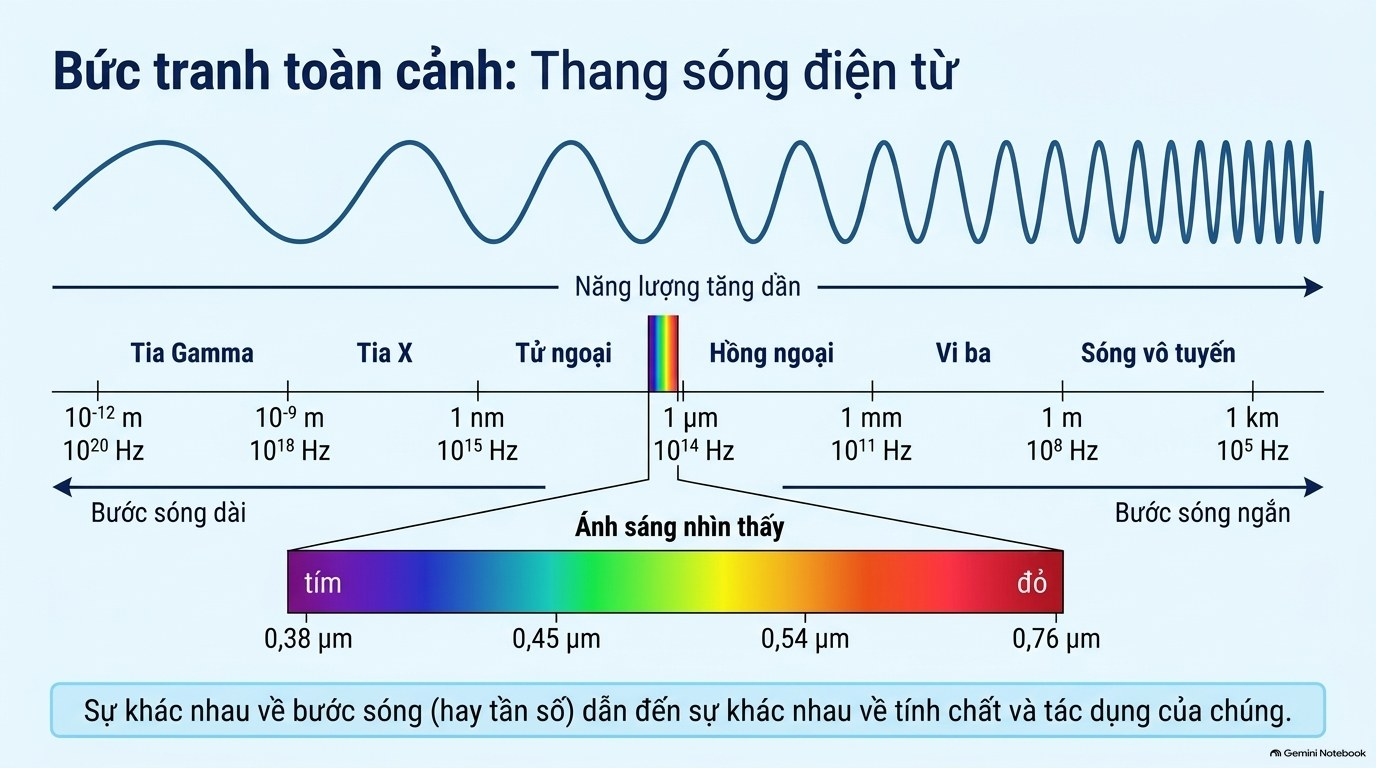
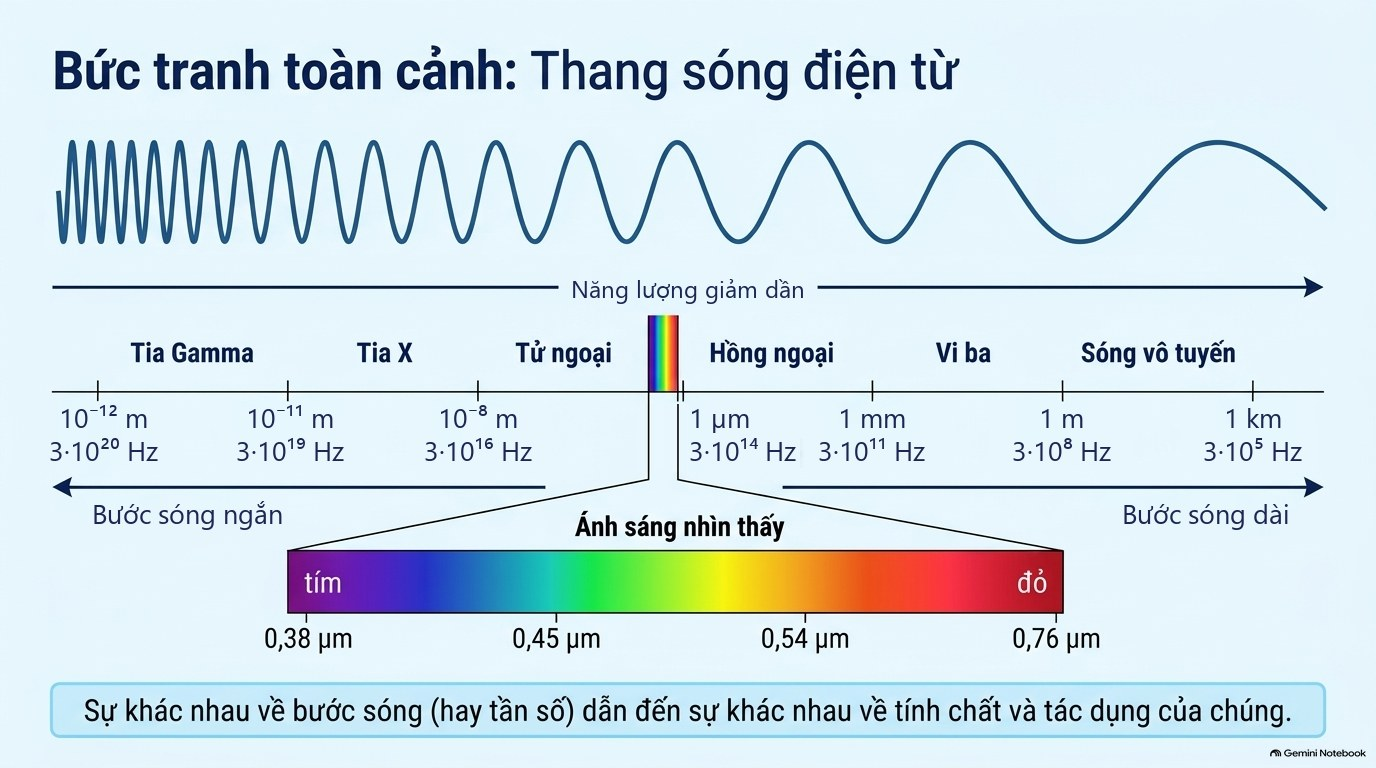
K10 Bài 13: gộp 14 hoạt động tương tác của bản cũ vào bài mới (32 slide); K11 Bài 11 slide 4: sửa chiều/số liệu thang sóng điện từ

diff --git a/bai-giang/k10-B13.html b/bai-giang/k10-B13.html
@@ -32,7 +32,8 @@ html,body{margin:0;height:100%;background:#0b1220;color:#e5e7eb;font:16px/1.4 "S
 #luoi span{display:block;padding:5px 2px 1px}
 #btK{position:fixed;inset:0;z-index:9999;background:rgba(15,23,42,.7);display:none;padding:2vh 2vw}
 #btK iframe{width:100%;height:100%;border:0;border-radius:12px;background:#fff}
-#btK iframe{height:calc(100% - 46px)} #btK button{position:absolute;bottom:calc(2vh + 12px);right:calc(2vw + 22px);font:600 16px "Segoe UI",sans-serif;border:0;border-radius:999px;padding:7px 16px;background:#14213d;color:#fff;cursor:pointer;box-shadow:0 2px 10px #0006}
+.ttf{position:absolute;inset:0;width:100%;height:100%;border:0;background:#0b1220}#san.tt .vung{display:none}.ttK{aspect-ratio:1376/768;border-radius:6px;background:linear-gradient(135deg,#1e3a8a,#0f172a);display:flex;flex-direction:column;justify-content:center;gap:8px;padding:12px;font-weight:700;color:#e5e7eb}.ttK b{align-self:flex-start;background:#f59e0b;color:#111827;border-radius:999px;padding:2px 10px;font-size:12px}
+#btK button{position:absolute;bottom:calc(2vh + 12px);right:calc(2vw + 22px);font:600 16px "Segoe UI",sans-serif;border:0;border-radius:999px;padding:7px 16px;background:#14213d;color:#fff;cursor:pointer;box-shadow:0 2px 10px #0006}
 @media (max-width:720px){#td{display:none}#thanh{gap:5px;padding:0 6px}#thanh button{padding:6px 10px;font-size:14px}}
 @media print{#thanh,#thuoc,.vung{display:none}#san{inset:0}}
 
@@ -70,7 +71,7 @@ html,body{margin:0;height:100%;background:#0b1220;color:#e5e7eb;font:16px/1.4 "S
 </style>
 </head>
 <body>
-<div id="san"><img id="anh" alt=""><button class="vung" id="vTruoc" aria-label="Slide trước" title="Slide trước"></button><button class="vung" id="vSau" aria-label="Slide sau" title="Slide sau"></button></div>
+<div id="san"><img id="anh" alt=""><iframe id="llFrame" class="ttf" title="Hoạt động tương tác" hidden></iframe><button class="vung" id="vTruoc" aria-label="Slide trước" title="Slide trước"></button><button class="vung" id="vSau" aria-label="Slide sau" title="Slide sau"></button></div>
 <div id="luoi" role="list" aria-label="Tất cả slide"></div>
 <div id="thuoc"></div>
 <div id="thanh">
@@ -80,7 +81,7 @@ html,body{margin:0;height:100%;background:#0b1220;color:#e5e7eb;font:16px/1.4 "S
   <span id="td"></span>
   <button id="bMP" hidden title="Mô phỏng cho slide này (phím M)">📐 Mô phỏng</button>
   <button id="bLuoi" title="Xem tất cả slide (phím O)">Tất cả slide</button>
-  <button id="bBT" class="c" title="Câu hỏi củng cố tương tác, có chấm điểm (phím B)">Luyện tập tương tác</button>
+  <button id="bBT" class="c" hidden title="Bài tập của bài này, có đáp án (phím B)">Bài tập cuối bài</button>
   <button id="bToan" title="Toàn màn hình (phím F)">⛶ Toàn màn hình</button>
 </div>
 <div id="btK"><button type="button">Đóng ✕</button></div>
@@ -213,7 +214,7 @@ window.MPve = {
 };
 </script>
 <script>/* Mô phỏng Bài 13 (khối 10). Tổng hợp và phân tích lực. Cân bằng lực.
-   Gắn vào slide (đã bỏ slide Mini-quiz, chỉ số từ 7 trở đi lùi 1 so với) bản pptx "Bài 13- Tong_hop_va_Phan_tich_Luc_da_sua.pptx" (chỉ số slide đếm từ 0):
+   Gắn vào slide của bản pptx "Bài 13- Tong_hop_va_Phan_tich_Luc_da_sua.pptx" (chỉ số slide đếm từ 0):
      2, 3  Thí nghiệm ba lực kế, thu thập số liệu     4, 5, 6  Quy tắc hình bình hành, độ lớn hợp lực, trường hợp đặc biệt
      8, 10 Mặt phẳng nghiêng                          9        Phân tích lực
      11    Điều kiện cân bằng (ba lực)                12, 16   Vật treo hai dây, bài toán dây phơi
@@ -621,28 +622,59 @@ window.MPve = {
   MP.dangKy("B13", 4, tongHop("Kéo thanh trượt F₁, F₂, α: hợp lực là đường chéo của hình bình hành tạo bởi hai lực.", "Quy tắc hình bình hành", 60));
   MP.dangKy("B13", 5, tongHop("Độ lớn F phụ thuộc F₁, F₂ và góc α: F² = F₁² + F₂² + 2F₁F₂cosα, luôn nằm giữa |F₁ − F₂| và F₁ + F₂.", "Độ lớn hợp lực", 90));
   MP.dangKy("B13", 6, tongHop("Bấm các nút α = 0°, 90°, 180°, F₁ = F₂ để kiểm tra bốn trường hợp đặc biệt.", "Các trường hợp đặc biệt của hợp lực", 0));
-  MP.dangKy("B13", 7, nghieng("Vì sao vật trượt xuống mặt phẳng nghiêng?", "Tăng góc α: thành phần Pₓ = P·sinα kéo vật trượt tăng dần; α = 0° thì Pₓ = 0."));
-  MP.dangKy("B13", 8, phanTich);
-  MP.dangKy("B13", 9, nghieng("Giải mã mặt phẳng nghiêng", "Pₓ = P·sinα (kéo trượt), P_y = P·cosα (ép lên mặt dốc), N = P_y. Đổi m và α để thấy các thành phần thay đổi."));
-  MP.dangKy("B13", 10, thiNghiem("Điều kiện cân bằng: ba lực có hợp lực bằng 0", "F₁ + F₂ + F₃ = 0: đa giác lực khép kín. Đổi F₁, F₂, α; F₃ tự điều chỉnh để chất điểm cân bằng.", false));
-  MP.dangKy("B13", 11, treo("Vật treo bằng hai dây", "T₁ + T₂ + P = 0 → 2T·sinα = P. Giảm α thì lực căng T tăng.", 20, 40));
-  MP.dangKy("B13", 13, dungSai());
-  MP.dangKy("B13", 14, tim);
-  MP.dangKy("B13", 15, treo("Bài toán dây phơi", "Dây phơi căng ngang (α nhỏ) → T rất lớn → dễ đứt. Thử giảm α đến khi dây đứt, rồi tăng lại.", 30, 20, true));
+  MP.dangKy("B13", 8, nghieng("Vì sao vật trượt xuống mặt phẳng nghiêng?", "Tăng góc α: thành phần Pₓ = P·sinα kéo vật trượt tăng dần; α = 0° thì Pₓ = 0."));
+  MP.dangKy("B13", 9, phanTich);
+  MP.dangKy("B13", 10, nghieng("Giải mã mặt phẳng nghiêng", "Pₓ = P·sinα (kéo trượt), P_y = P·cosα (ép lên mặt dốc), N = P_y. Đổi m và α để thấy các thành phần thay đổi."));
+  MP.dangKy("B13", 11, thiNghiem("Điều kiện cân bằng: ba lực có hợp lực bằng 0", "F₁ + F₂ + F₃ = 0: đa giác lực khép kín. Đổi F₁, F₂, α; F₃ tự điều chỉnh để chất điểm cân bằng.", false));
+  MP.dangKy("B13", 12, treo("Vật treo bằng hai dây", "T₁ + T₂ + P = 0 → 2T·sinα = P. Giảm α thì lực căng T tăng.", 20, 40));
+  MP.dangKy("B13", 14, dungSai());
+  MP.dangKy("B13", 15, tim);
+  MP.dangKy("B13", 16, treo("Bài toán dây phơi", "Dây phơi căng ngang (α nhỏ) → T rất lớn → dễ đứt. Thử giảm α đến khi dây đứt, rồi tăng lại.", 30, 20, true));
 })();
 </script>
 <script>
-var MA="B13",TT="k10-B13-tuong-tac.html#B13@9",TEN=["Bài 13: Tổng hợp và phân tích lực. Cân bằng lực", "Tình huống thực tế: thay nhiều lực bằng một lực?", "Thí nghiệm tổng hợp hai lực đồng quy", "Thu thập và xử lí số liệu", "Quy tắc hình bình hành", "Tính độ lớn hợp lực", "Các trường hợp đặc biệt của hợp lực", "Khởi động tiết 2: Bí ẩn mặt phẳng nghiêng", "Phân tích lực thành hai thành phần vuông góc", "Ứng dụng: giải mã mặt phẳng nghiêng", "Điều kiện cân bằng của chất điểm", "Vận dụng trạng thái cân bằng", "Luyện tập dạng 1: Trắc nghiệm nhiều lựa chọn", "Luyện tập dạng 2: Đúng / Sai", "Luyện tập dạng 3: Trả lời ngắn từ đồ thị", "Vận dụng thực tế: Bài toán dây phơi", "Phụ lục 1: Phiếu học tập số 1", "Phụ lục 2: Đáp án chi tiết luyện tập"],THU="k10-"+MA+"/",slides=TEN.map(function(t,i){return {ten:t,src:THU+"s"+(i<9?"0":"")+(i+1)+".jpg"}}),cur=0;
+var MA="B13",TTB="k10-B13-tuong-tac.html",DAY=[{"t": "Bài 13: Tổng hợp và phân tích lực. Cân bằng lực", "a": 1, "tt": -1, "mp": 0}, {"t": "Khởi động: chọn ô số, trả lời nhanh", "a": 0, "tt": 1, "mp": -1}, {"t": "Tình huống thực tế: thay nhiều lực bằng một lực?", "a": 2, "tt": -1, "mp": 1}, {"t": "Dự đoán: tàu chở hàng đi hướng nào?", "a": 0, "tt": 2, "mp": -1}, {"t": "Hoạt động 1: Tổng hợp hai lực cùng phương", "a": 0, "tt": 4, "mp": -1}, {"t": "Thí nghiệm tổng hợp hai lực đồng quy", "a": 3, "tt": -1, "mp": 2}, {"t": "Thu thập và xử lí số liệu", "a": 4, "tt": -1, "mp": 3}, {"t": "Quy tắc hình bình hành", "a": 5, "tt": -1, "mp": 4}, {"t": "Hoạt động 2: Quy tắc hình bình hành, sắp xếp đúng bước", "a": 0, "tt": 5, "mp": -1}, {"t": "Tính độ lớn hợp lực", "a": 6, "tt": -1, "mp": 5}, {"t": "Các trường hợp đặc biệt của hợp lực", "a": 7, "tt": -1, "mp": 6}, {"t": "Vận dụng: Giải mã tàu chở hàng (SGK tr. 57, câu 2)", "a": 0, "tt": 8, "mp": -1}, {"t": "Củng cố 1: Tổng hợp lực", "a": 0, "tt": 9, "mp": -1}, {"t": "Khởi động tiết 2: Bí ẩn mặt phẳng nghiêng", "a": 8, "tt": -1, "mp": 8}, {"t": "Phân tích lực thành hai thành phần vuông góc", "a": 9, "tt": -1, "mp": 9}, {"t": "Ứng dụng: giải mã mặt phẳng nghiêng", "a": 10, "tt": -1, "mp": 10}, {"t": "Ví dụ: Vật trên mặt phẳng nghiêng nhẵn", "a": 0, "tt": 14, "mp": -1}, {"t": "Củng cố 3: Phân tích lực", "a": 0, "tt": 15, "mp": -1}, {"t": "Điều kiện cân bằng của chất điểm", "a": 11, "tt": -1, "mp": 11}, {"t": "Vận dụng trạng thái cân bằng", "a": 12, "tt": -1, "mp": 12}, {"t": "Hoạt động 3: Lực không cân bằng, phân loại tình huống", "a": 0, "tt": 11, "mp": -1}, {"t": "Củng cố 2: Cân bằng lực", "a": 0, "tt": 12, "mp": -1}, {"t": "Luyện tập dạng 1: Trắc nghiệm nhiều lựa chọn", "a": 13, "tt": -1, "mp": 13}, {"t": "Luyện tập dạng 2: Đúng / Sai", "a": 14, "tt": -1, "mp": 14}, {"t": "Luyện tập dạng 3: Trả lời ngắn từ đồ thị", "a": 15, "tt": -1, "mp": 15}, {"t": "Vận dụng thực tế: Bài toán dây phơi", "a": 16, "tt": -1, "mp": 16}, {"t": "Em có thể", "a": 0, "tt": 18, "mp": -1}, {"t": "Tổng kết: hệ thống kiến thức", "a": 0, "tt": 16, "mp": -1}, {"t": "Luyện tập: Bài tập tổng hợp", "a": 0, "tt": 17, "mp": -1}, {"t": "Vận dụng: Bài tập vận dụng", "a": 0, "tt": 19, "mp": -1}, {"t": "Phụ lục 1: Phiếu học tập số 1", "a": 17, "tt": -1, "mp": 17}, {"t": "Phụ lục 2: Đáp án chi tiết luyện tập", "a": 18, "tt": -1, "mp": 18}],THU="k10-"+MA+"/",slides=DAY.map(function(d){return {ten:d.t,src:d.a?THU+"s"+(d.a<10?"0":"")+d.a+".jpg":"",tt:d.tt,mp:d.mp}}),cur=0;
 (function(){
   var $=function(i){return document.getElementById(i)},anh=$("anh"),luoi=$("luoi"),btK=$("btK");
+  var ttF=document.querySelector("iframe.ttf");   /* id llFrame: trang con tự ẩn công cụ lớp (trang này đã có) */
+  function tiep(){if(!ttBuoc())go(cur+1)}
+  function ttBuoc(){          /* trang tương tác cũ hiện từng bước (.step): bấm tiếp thì hiện bước kế trước khi sang slide sau */
+    if(ttF.hidden||slides[cur].tt<0)return false;
+    try{var w=ttF.contentWindow,h=[].slice.call(w.slides[w.cur].querySelectorAll(".step")).filter(function(e){return !e.classList.contains("show")})[0];if(h){h.classList.add("show");return true}}catch(e){}
+    return false;
+  }
+  function ttNap(){           /* trang con tải xong: ẩn thanh điều khiển riêng, chuyển phím ← → về trang này */
+    var w,d;try{w=ttF.contentWindow;d=w.document;if(!w.go)return}catch(e){return}
+    if(!d.getElementById("hsdh-tt")){
+      var st=d.createElement("style");st.id="hsdh-tt";st.textContent="#bar,#toc{display:none!important}";d.head.appendChild(st);
+      w.addEventListener("keydown",function(e){
+        var t=e.target&&e.target.tagName,k=e.key,mui=k==="ArrowRight"||k==="ArrowLeft"||k==="PageDown"||k==="PageUp";
+        if(t==="INPUT"||t==="TEXTAREA"||t==="SELECT"){if(mui)e.stopImmediatePropagation();return}
+        if(k==="ArrowRight"||k==="PageDown"||(k===" "&&t!=="BUTTON")){e.preventDefault();e.stopImmediatePropagation();tiep()}
+        else if(k==="ArrowLeft"||k==="PageUp"){e.preventDefault();e.stopImmediatePropagation();go(cur-1)}
+        else if(k==="f"||k==="F"||k==="o"||k==="O"){e.preventDefault();e.stopImmediatePropagation();document.dispatchEvent(new KeyboardEvent("keydown",{key:k}))}
+      },true);
+    }
+    ttF.dataset.ok="1";var s=slides[cur];if(s.tt>=0)w.go(s.tt);
+  }
+  ttF.addEventListener("load",ttNap);
+  function ttHien(s,atras){
+    var san=$("san");
+    if(s.tt<0){ttF.hidden=true;san.classList.remove("tt");anh.style.display="";anh.src=s.src;anh.alt="Slide "+(cur+1)+": "+s.ten;return}
+    anh.style.display="none";ttF.hidden=false;san.classList.add("tt");
+    if(ttF.dataset.ok){try{ttF.contentWindow.go(s.tt,atras);ttF.focus();return}catch(e){}}
+    if(!ttF.getAttribute("src"))ttF.src=TTB+"#B13@"+s.tt;
+    else if(!ttF.dataset.ok)ttF.src=TTB+"?k="+Date.now()+"#B13@"+s.tt;
+  }
+
   window.go=function(i){
-    cur=Math.max(0,Math.min(slides.length-1,i|0));var s=slides[cur];
-    anh.src=s.src;anh.alt="Slide "+(cur+1)+": "+s.ten;
+    var atras=(i|0)<cur;cur=Math.max(0,Math.min(slides.length-1,i|0));var s=slides[cur];
+    ttHien(s,atras);
     $("vt").textContent=(cur+1)+" / "+slides.length;$("td").textContent=s.ten;
     $("bTruoc").disabled=cur===0;$("bSau").disabled=cur===slides.length-1;
     $("thuoc").style.width=((cur+1)/slides.length*100)+"%";
-    if(slides[cur+1]){(new Image()).src=slides[cur+1].src}
-    var mp=window.MP&&MP.co(MA,cur);$("bMP").hidden=!mp;if(window.MP&&MP.dangMo())MP.dong();
+    if(slides[cur+1]&&slides[cur+1].src){(new Image()).src=slides[cur+1].src}
+    var mp=window.MP&&MP.co(MA,slides[cur].mp);$("bMP").hidden=!mp;if(window.MP&&MP.dangMo())MP.dong();
     try{history.replaceState(null,"","#"+MA+"@"+cur)}catch(e){}
     dongLuoi();
   };
@@ -650,28 +682,28 @@ var MA="B13",TT="k10-B13-tuong-tac.html#B13@9",TEN=["Bài 13: Tổng hợp và p
   function moLuoi(){
     if(luoi.classList.contains("mo")){dongLuoi();return}
     if(!luoi.firstChild)slides.forEach(function(s,i){var b=document.createElement("button");b.setAttribute("role","listitem");b.dataset.i=i;
-      b.innerHTML='<img loading="lazy" width="1376" height="768" alt="" src="'+s.src+'"><span><b>'+(i+1)+'.</b> '+s.ten+'</span>';luoi.appendChild(b)});
+      b.innerHTML=(s.src?'<img loading="lazy" width="1376" height="768" alt="" src="'+s.src+'">':'<div class="ttK"><b>Tương tác</b>'+s.ten+'</div>')+'<span><b>'+(i+1)+'.</b> '+s.ten+'</span>';luoi.appendChild(b)});
     [].forEach.call(luoi.children,function(b,i){b.classList.toggle("on",i===cur)});
     luoi.classList.add("mo");$("bLuoi").textContent="Đóng tổng quan";
     var on=luoi.children[cur];if(on){on.focus();on.scrollIntoView({block:"center"})}
   }
   function toan(){var d=document;if(d.fullscreenElement)d.exitFullscreen();else if(d.documentElement.requestFullscreen)d.documentElement.requestFullscreen()}
-  function moBT(){if(!btK.querySelector("iframe")){var f=document.createElement("iframe");f.title="Luyện tập tương tác";f.id="llFrame";f.src=TT;btK.appendChild(f)}btK.style.display="block";btK.querySelector("button").focus()}
+  function moBT(){if(!btK.querySelector("iframe")){var f=document.createElement("iframe");f.title="Bài tập cuối bài";f.src="k11-bai-tap.html#"+MA;btK.appendChild(f)}btK.style.display="block";btK.querySelector("button").focus()}
   function dongBT(){btK.style.display="none";$("bBT").focus()}
   luoi.addEventListener("click",function(e){var b=e.target.closest("button");if(b)go(+b.dataset.i)});
   $("bTruoc").onclick=$("vTruoc").onclick=function(){go(cur-1)};
-  $("bSau").onclick=$("vSau").onclick=function(){go(cur+1)};
-  $("bLuoi").onclick=moLuoi;$("bToan").onclick=toan;$("bBT").onclick=moBT;$("bMP").onclick=function(){if(window.MP)MP.mo(MA,cur)};btK.querySelector("button").onclick=dongBT;
+  $("bSau").onclick=$("vSau").onclick=tiep;
+  $("bLuoi").onclick=moLuoi;$("bToan").onclick=toan;$("bBT").onclick=moBT;$("bMP").onclick=function(){if(window.MP)MP.mo(MA,slides[cur].mp)};btK.querySelector("button").onclick=dongBT;
   document.addEventListener("keydown",function(e){
     if(btK.style.display==="block"){if(e.key==="Escape")dongBT();return}
     var t=e.target.tagName;if(t==="INPUT"||t==="TEXTAREA"||t==="SELECT"||e.ctrlKey||e.altKey||e.metaKey)return;
     if(document.querySelector(".hl-ov")||(window.MP&&MP.dangMo()))return;
     var k=e.key;
-    if(k==="ArrowRight"||k==="PageDown"||(k===" "&&t!=="BUTTON")){go(cur+1);e.preventDefault()}
+    if(k==="ArrowRight"||k==="PageDown"||(k===" "&&t!=="BUTTON")){tiep();e.preventDefault()}
     else if(k==="ArrowLeft"||k==="PageUp"){go(cur-1);e.preventDefault()}
     else if(k==="Home")go(0);else if(k==="End")go(slides.length-1);
     else if(k==="f"||k==="F")toan();else if(k==="o"||k==="O")moLuoi();else if(k==="b"||k==="B")moBT();
-    else if((k==="m"||k==="M")&&window.MP&&MP.co(MA,cur))MP.mo(MA,cur);
+    else if((k==="m"||k==="M")&&window.MP&&MP.co(MA,slides[cur].mp))MP.mo(MA,slides[cur].mp);
     else if(k==="Escape")dongLuoi();
   });
   var x0=null;

diff --git a/tools/k10_bai_giang/dung.py b/tools/k10_bai_giang/dung.py
@@ -20,28 +20,44 @@ from PIL import Image
 NGUON = os.path.join(REPO, 'K10')
 d11.KHOA = '10-3'
 
+# Trình tự trình chiếu: ('a', chỉ số slide trong pptx tính từ 0, tên) là slide ẢNH; ('t', chỉ số slide trong trang tương tác cũ k10-B13-tuong-tac.html tính từ 0, tên)
+# là hoạt động TƯƠNG TÁC của bài giảng cũ, nhúng vào đúng chỗ. Slide pptx số 7 "Mini-quiz" bị bỏ theo phiếu #7 (Củng cố 1 tương tác thay vào chỗ đó).
+# Chỉ số mô phỏng trong mo_phong/B13.js = chỉ số slide pptx (không đổi khi chèn thêm hoạt động).
 BAI = {
     'B13': dict(file='Bài 13- Tong_hop_va_Phan_tich_Luc_da_sua.pptx', ten='Bài 13. Tổng hợp và phân tích lực. Cân bằng lực',
-                tuong_tac='k10-B13-tuong-tac.html#B13@9', slide=[
-        'Bài 13: Tổng hợp và phân tích lực. Cân bằng lực',
-        'Tình huống thực tế: thay nhiều lực bằng một lực?',
-        'Thí nghiệm tổng hợp hai lực đồng quy',
-        'Thu thập và xử lí số liệu',
-        'Quy tắc hình bình hành',
-        'Tính độ lớn hợp lực',
-        'Các trường hợp đặc biệt của hợp lực',
-        'Mini-quiz (củng cố tiết 1)',
-        'Khởi động tiết 2: Bí ẩn mặt phẳng nghiêng',
-        'Phân tích lực thành hai thành phần vuông góc',
-        'Ứng dụng: giải mã mặt phẳng nghiêng',
-        'Điều kiện cân bằng của chất điểm',
-        'Vận dụng trạng thái cân bằng',
-        'Luyện tập dạng 1: Trắc nghiệm nhiều lựa chọn',
-        'Luyện tập dạng 2: Đúng / Sai',
-        'Luyện tập dạng 3: Trả lời ngắn từ đồ thị',
-        'Vận dụng thực tế: Bài toán dây phơi',
-        'Phụ lục 1: Phiếu học tập số 1',
-        'Phụ lục 2: Đáp án chi tiết luyện tập']),
+                tuong_tac='k10-B13-tuong-tac.html', day=[
+        ('a', 0, 'Bài 13: Tổng hợp và phân tích lực. Cân bằng lực'),
+        ('t', 1, 'Khởi động: chọn ô số, trả lời nhanh'),
+        ('a', 1, 'Tình huống thực tế: thay nhiều lực bằng một lực?'),
+        ('t', 2, 'Dự đoán: tàu chở hàng đi hướng nào?'),
+        ('t', 4, 'Hoạt động 1: Tổng hợp hai lực cùng phương'),
+        ('a', 2, 'Thí nghiệm tổng hợp hai lực đồng quy'),
+        ('a', 3, 'Thu thập và xử lí số liệu'),
+        ('a', 4, 'Quy tắc hình bình hành'),
+        ('t', 5, 'Hoạt động 2: Quy tắc hình bình hành, sắp xếp đúng bước'),
+        ('a', 5, 'Tính độ lớn hợp lực'),
+        ('a', 6, 'Các trường hợp đặc biệt của hợp lực'),
+        ('t', 8, 'Vận dụng: Giải mã tàu chở hàng (SGK tr. 57, câu 2)'),
+        ('t', 9, 'Củng cố 1: Tổng hợp lực'),
+        ('a', 8, 'Khởi động tiết 2: Bí ẩn mặt phẳng nghiêng'),
+        ('a', 9, 'Phân tích lực thành hai thành phần vuông góc'),
+        ('a', 10, 'Ứng dụng: giải mã mặt phẳng nghiêng'),
+        ('t', 14, 'Ví dụ: Vật trên mặt phẳng nghiêng nhẵn'),
+        ('t', 15, 'Củng cố 3: Phân tích lực'),
+        ('a', 11, 'Điều kiện cân bằng của chất điểm'),
+        ('a', 12, 'Vận dụng trạng thái cân bằng'),
+        ('t', 11, 'Hoạt động 3: Lực không cân bằng, phân loại tình huống'),
+        ('t', 12, 'Củng cố 2: Cân bằng lực'),
+        ('a', 13, 'Luyện tập dạng 1: Trắc nghiệm nhiều lựa chọn'),
+        ('a', 14, 'Luyện tập dạng 2: Đúng / Sai'),
+        ('a', 15, 'Luyện tập dạng 3: Trả lời ngắn từ đồ thị'),
+        ('a', 16, 'Vận dụng thực tế: Bài toán dây phơi'),
+        ('t', 18, 'Em có thể'),
+        ('t', 16, 'Tổng kết: hệ thống kiến thức'),
+        ('t', 17, 'Luyện tập: Bài tập tổng hợp'),
+        ('t', 19, 'Vận dụng: Bài tập vận dụng'),
+        ('a', 17, 'Phụ lục 1: Phiếu học tập số 1'),
+        ('a', 18, 'Phụ lục 2: Đáp án chi tiết luyện tập')]),
 }
 
 # Chỉnh trên ảnh slide (cách ghi như tools/k11_bai_giang/dung.py). Tọa độ theo ảnh gốc 1376x768.
@@ -59,17 +75,62 @@ SUA_ANH = {
     ('B13', 17): [('xoa', (1308, 708, 1348, 738))],
 }
 
-TRANG = (d11.TRANG
-         .replace('Vật lí 11', 'Vật lí 10')
-         .replace('THU="k11-"+MA+"/"', 'THU="k10-"+MA+"/"')
-         .replace('<button id="bBT" class="c" title="Bài tập của bài này, có đáp án (phím B)">Bài tập cuối bài</button>',
-                  '<button id="bBT" class="c" title="Câu hỏi củng cố tương tác, có chấm điểm (phím B)">Luyện tập tương tác</button>')
-         .replace('f.title="Bài tập cuối bài";f.src="k11-bai-tap.html#"+MA;', 'f.title="Luyện tập tương tác";f.id="llFrame";f.src=TT;')   # id llFrame: trang con tự ẩn công cụ lớp (đã có ở trang này)
-         .replace('#btK button{', '#btK iframe{height:calc(100% - 46px)} #btK button{')
-         .replace('var MA=__MA__,', 'var MA=__MA__,TT=__TT__,')
-         .replace('🌊 Mô phỏng', '📐 Mô phỏng'))
-for dau in ('THU="k10-"', 'f.src=TT', 'TT=__TT__', 'Luyện tập tương tác', '#btK iframe{height:calc'):
-    assert dau in TRANG, 'Khung trang K11 đã đổi, cập nhật dung.py: thiếu ' + dau
+def thay(t, a, b, n=1):
+    assert t.count(a) == n, 'Khung trang K11 đã đổi, cập nhật dung.py: ' + a[:70]
+    return t.replace(a, b)
+
+
+TRANG = d11.TRANG.replace('Vật lí 11', 'Vật lí 10').replace('🌊 Mô phỏng', '📐 Mô phỏng')
+TRANG = thay(TRANG, 'var MA=__MA__,TEN=__SLIDE__,THU="k11-"+MA+"/",slides=TEN.map(function(t,i){return {ten:t,src:THU+"s"+(i<9?"0":"")+(i+1)+".jpg"}}),cur=0;',
+             'var MA=__MA__,TTB=__TT__,DAY=__SLIDE__,THU="k10-"+MA+"/",slides=DAY.map(function(d){return {ten:d.t,src:d.a?THU+"s"+(d.a<10?"0":"")+d.a+".jpg":"",tt:d.tt,mp:d.mp}}),cur=0;')
+# nút "Bài tập cuối bài" của K11 không dùng: các hoạt động tương tác đã nằm ngay trong chuỗi slide
+TRANG = thay(TRANG, '<button id="bBT" class="c"', '<button id="bBT" class="c" hidden')
+TRANG = thay(TRANG, '<img id="anh" alt="">', '<img id="anh" alt=""><iframe id="llFrame" class="ttf" title="Hoạt động tương tác" hidden></iframe>')
+TRANG = thay(TRANG, '#btK button{', '.ttf{position:absolute;inset:0;width:100%;height:100%;border:0;background:#0b1220}#san.tt .vung{display:none}'
+             '.ttK{aspect-ratio:1376/768;border-radius:6px;background:linear-gradient(135deg,#1e3a8a,#0f172a);display:flex;flex-direction:column;justify-content:center;gap:8px;padding:12px;font-weight:700;color:#e5e7eb}'
+             '.ttK b{align-self:flex-start;background:#f59e0b;color:#111827;border-radius:999px;padding:2px 10px;font-size:12px}\n#btK button{')
+TRANG = thay(TRANG, 'cur=Math.max(0,Math.min(slides.length-1,i|0));var s=slides[cur];\n    anh.src=s.src;anh.alt="Slide "+(cur+1)+": "+s.ten;',
+             'var atras=(i|0)<cur;cur=Math.max(0,Math.min(slides.length-1,i|0));var s=slides[cur];\n    ttHien(s,atras);')
+TRANG = thay(TRANG, 'if(slides[cur+1]){(new Image()).src=slides[cur+1].src}', 'if(slides[cur+1]&&slides[cur+1].src){(new Image()).src=slides[cur+1].src}')
+TRANG = thay(TRANG, 'MP.co(MA,cur)', 'MP.co(MA,slides[cur].mp)', 2)
+TRANG = thay(TRANG, 'MP.mo(MA,cur)', 'MP.mo(MA,slides[cur].mp)', 2)
+TRANG = thay(TRANG, 'b.innerHTML=\'<img loading="lazy" width="1376" height="768" alt="" src="\'+s.src+\'"><span>',
+             'b.innerHTML=(s.src?\'<img loading="lazy" width="1376" height="768" alt="" src="\'+s.src+\'">\':\'<div class="ttK"><b>Tương tác</b>\'+s.ten+\'</div>\')+\'<span>')
+TRANG = thay(TRANG, '$("bSau").onclick=$("vSau").onclick=function(){go(cur+1)};', '$("bSau").onclick=$("vSau").onclick=tiep;')
+TRANG = thay(TRANG, '{go(cur+1);e.preventDefault()}', '{tiep();e.preventDefault()}')
+TT_JS = r"""
+  var ttF=document.querySelector("iframe.ttf");   /* id llFrame: trang con tự ẩn công cụ lớp (trang này đã có) */
+  function tiep(){if(!ttBuoc())go(cur+1)}
+  function ttBuoc(){          /* trang tương tác cũ hiện từng bước (.step): bấm tiếp thì hiện bước kế trước khi sang slide sau */
+    if(ttF.hidden||slides[cur].tt<0)return false;
+    try{var w=ttF.contentWindow,h=[].slice.call(w.slides[w.cur].querySelectorAll(".step")).filter(function(e){return !e.classList.contains("show")})[0];if(h){h.classList.add("show");return true}}catch(e){}
+    return false;
+  }
+  function ttNap(){           /* trang con tải xong: ẩn thanh điều khiển riêng, chuyển phím ← → về trang này */
+    var w,d;try{w=ttF.contentWindow;d=w.document;if(!w.go)return}catch(e){return}
+    if(!d.getElementById("hsdh-tt")){
+      var st=d.createElement("style");st.id="hsdh-tt";st.textContent="#bar,#toc{display:none!important}";d.head.appendChild(st);
+      w.addEventListener("keydown",function(e){
+        var t=e.target&&e.target.tagName,k=e.key,mui=k==="ArrowRight"||k==="ArrowLeft"||k==="PageDown"||k==="PageUp";
+        if(t==="INPUT"||t==="TEXTAREA"||t==="SELECT"){if(mui)e.stopImmediatePropagation();return}
+        if(k==="ArrowRight"||k==="PageDown"||(k===" "&&t!=="BUTTON")){e.preventDefault();e.stopImmediatePropagation();tiep()}
+        else if(k==="ArrowLeft"||k==="PageUp"){e.preventDefault();e.stopImmediatePropagation();go(cur-1)}
+        else if(k==="f"||k==="F"||k==="o"||k==="O"){e.preventDefault();e.stopImmediatePropagation();document.dispatchEvent(new KeyboardEvent("keydown",{key:k}))}
+      },true);
+    }
+    ttF.dataset.ok="1";var s=slides[cur];if(s.tt>=0)w.go(s.tt);
+  }
+  ttF.addEventListener("load",ttNap);
+  function ttHien(s,atras){
+    var san=$("san");
+    if(s.tt<0){ttF.hidden=true;san.classList.remove("tt");anh.style.display="";anh.src=s.src;anh.alt="Slide "+(cur+1)+": "+s.ten;return}
+    anh.style.display="none";ttF.hidden=false;san.classList.add("tt");
+    if(ttF.dataset.ok){try{ttF.contentWindow.go(s.tt,atras);ttF.focus();return}catch(e){}}
+    if(!ttF.getAttribute("src"))ttF.src=TTB+"#B13@"+s.tt;
+    else if(!ttF.dataset.ok)ttF.src=TTB+"?k="+Date.now()+"#B13@"+s.tt;
+  }
+"""
+TRANG = thay(TRANG, 'btK=$("btK");', 'btK=$("btK");' + TT_JS)
 
 
 def main():
@@ -78,24 +139,31 @@ def main():
         if not os.path.exists(f):
             print('Bỏ qua', ma, ': không thấy', f); continue
         anh = d11.anh_slide(f)
-        assert len(anh) == len(B['slide']), '%s: %d slide nhưng có %d tên slide' % (ma, len(anh), len(B['slide']))
         thu = os.path.join(REPO, 'bai-giang', 'k10-' + ma); os.makedirs(thu, exist_ok=True)
-        tong = 0
-        for i, b in enumerate(anh, 1):
-            im = Image.open(io.BytesIO(b)).convert('RGB')
-            if (ma, i) in SUA_ANH: im = d11.sua_anh(im, SUA_ANH[(ma, i)])
-            g = os.path.join(thu, 's%02d.jpg' % i); im.save(g, quality=88, optimize=True); tong += os.path.getsize(g)
+        day, tong, n = [], 0, 0
+        for loai, i, ten in B['day']:
+            if loai == 'a':
+                n += 1
+                im = Image.open(io.BytesIO(anh[i])).convert('RGB')
+                if (ma, i + 1) in SUA_ANH: im = d11.sua_anh(im, SUA_ANH[(ma, i + 1)])
+                g = os.path.join(thu, 's%02d.jpg' % n); im.save(g, quality=88, optimize=True); tong += os.path.getsize(g)
+                day.append(dict(t=ten, a=n, tt=-1, mp=i))
+            else:
+                day.append(dict(t=ten, a=0, tt=i, mp=-1))
+        for k in range(n + 1, 40):      # xóa ảnh thừa của lần dựng trước
+            g = os.path.join(thu, 's%02d.jpg' % k)
+            if os.path.exists(g): os.remove(g)
         cc = d11.cong_cu_lop(ma)
         mp = os.path.join(DIR, 'mo_phong', ma + '.js')
         mp = ''.join('<script>%s</script>\n' % open(g, encoding='utf8').read().replace('</script', '<\\/script')
                      for g in (os.path.join(K11, 'mo_phong', 'khung.js'), mp)) if os.path.exists(mp) else ''
         h = (TRANG.replace('__TEN__', B['ten']).replace('__MA__', json.dumps(ma)).replace('__TT__', json.dumps(B['tuong_tac']))
-             .replace('__SLIDE__', json.dumps(B['slide'], ensure_ascii=False))
+             .replace('__SLIDE__', json.dumps(day, ensure_ascii=False))
              .replace('__MP__', mp).replace('__CSS__', cc['css']).replace('__JS__', cc['js'].replace('</script', '<\\/script')))
         dich = os.path.join(REPO, 'bai-giang', 'k10-%s.html' % ma)
         open(dich, 'w', encoding='utf8').write(h)
         subprocess.run(['node', os.path.join(REPO, 'tools', 'gan_nut_sua.js'), dich], check=True, stdout=subprocess.DEVNULL)   # nút ✎ Sửa
-        print(ma, B['ten'], '·', len(anh), 'slide ·', round(tong / 1048576, 2), 'MB ảnh')
+        print(ma, B['ten'], '·', len(day), 'slide,', n, 'ảnh ·', round(tong / 1048576, 2), 'MB ảnh')
 
 
 if __name__ == '__main__':

diff --git a/tools/k11_bai_giang/dung.py b/tools/k11_bai_giang/dung.py
@@ -64,6 +64,19 @@ SUA_ANH = {
                   ('to', (453, 603, 510, 632)), ('chu', (452, 625), '1,50', 28, 'toan', (8, 8, 16)),
                   ('to', (548, 612, 890, 660)), ('chu', (549, 647), '0,59 μm.', 36, 'toan', (8, 8, 16))],
     # B12 slide 8: chữ lỗi của NotebookLM ("Column 1/2/3", "hẹp $ hai khe hẹp$")
+    # B11 slide 4 (thang sóng điện từ): ảnh gốc ngược chiều và sai số. Sửa: hình sóng lật lại (gamma dày nhất bên trái), "Năng lượng tăng dần" → "giảm dần"
+    # (mũi tên chỉ sang phải, về phía vô tuyến), hai nhãn bước sóng đổi chỗ, các mốc λ–f viết lại theo f = c/λ (c = 3·10⁸ m/s; mốc 10⁻⁹ m trùng 1 nm nên đổi thành 10⁻¹¹ m).
+    ('B11', 4): [('lat', (45, 120, 1335, 255)),
+                ('xoa', (570, 268, 806, 306)), ('chu', (688, 298), 'Năng lượng giảm dần', 24, 'thuong', (28, 38, 80), 'ms'),
+                ('xoa', (85, 497, 290, 535)), ('chu', (92, 524), 'Bước sóng ngắn', 27, 'thuong', (28, 38, 80)),
+                ('xoa', (1100, 497, 1300, 535)), ('chu', (1290, 524), 'Bước sóng dài', 27, 'thuong', (28, 38, 80), 'rs'),
+                ('xoa', (32, 404, 176, 468)), ('chu', (104, 428), '10⁻¹² m', 27, 'thuong', (28, 38, 80), 'ms'), ('chu', (104, 461), '3·10²⁰ Hz', 27, 'thuong', (28, 38, 80), 'ms'),
+                ('xoa', (218, 404, 362, 468)), ('chu', (290, 428), '10⁻¹¹ m', 27, 'thuong', (28, 38, 80), 'ms'), ('chu', (290, 461), '3·10¹⁹ Hz', 27, 'thuong', (28, 38, 80), 'ms'),
+                ('xoa', (406, 404, 550, 468)), ('chu', (478, 428), '10⁻⁸ m', 27, 'thuong', (28, 38, 80), 'ms'), ('chu', (478, 461), '3·10¹⁶ Hz', 27, 'thuong', (28, 38, 80), 'ms'),
+                ('xoa', (652, 404, 812, 468)), *[('chep', (638, 470, 690, 471), (0, y - 470)) for y in range(404, 468)], ('chu', (689, 428), '1 µm', 27, 'thuong', (28, 38, 80)), ('chu', (689, 461), '3·10¹⁴ Hz', 27, 'thuong', (28, 38, 80)),
+                ('xoa', (800, 404, 944, 468)), ('chu', (872, 428), '1 mm', 27, 'thuong', (28, 38, 80), 'ms'), ('chu', (872, 461), '3·10¹¹ Hz', 27, 'thuong', (28, 38, 80), 'ms'),
+                ('xoa', (990, 404, 1134, 468)), ('chu', (1062, 428), '1 m', 27, 'thuong', (28, 38, 80), 'ms'), ('chu', (1062, 461), '3·10⁸ Hz', 27, 'thuong', (28, 38, 80), 'ms'),
+                ('xoa', (1181, 404, 1325, 468)), ('chu', (1253, 428), '1 km', 27, 'thuong', (28, 38, 80), 'ms'), ('chu', (1253, 461), '3·10⁵ Hz', 27, 'thuong', (28, 38, 80), 'ms')],
     ('B12', 8): [('to', (180, 470, 340, 508)), ('chu', (258, 498), 'Nguồn sáng', 27, 'dam', (24, 36, 90), 'ms'),
                  ('to', (600, 470, 770, 508)), ('chu', (685, 498), 'Màn chắn', 27, 'dam', (24, 36, 90), 'ms'),
                  ('to', (1030, 470, 1205, 508)), ('chu', (1117, 498), 'Màn quan sát', 27, 'dam', (24, 36, 90), 'ms'),
@@ -80,6 +93,8 @@ def sua_anh(im, viec):
         if v[0] == 'chu':
             f, k = PHONG[v[4]]; ImageDraw.Draw(im).text(v[1], v[2], font=ImageFont.truetype(f, v[3], index=k), fill=v[5], anchor=v[6] if len(v) > 6 else 'ls'); continue
         x0, y0, x1, y1 = v[1]
+        if v[0] == 'lat':     # lật ngược trái-phải một vùng
+            im.paste(im.crop((x0, y0, x1, y1)).transpose(Image.FLIP_LEFT_RIGHT), (x0, y0)); px = im.load(); continue
         if v[0] == 'to':      # tô phẳng cả vùng bằng màu nền ở góc trên trái (chỉ dùng trên nền phẳng)
             ImageDraw.Draw(im).rectangle((x0, y0, x1 - 1, y1 - 1), fill=px[x0, y0]); continue
         if v[0] == 'xoa':     # tô lại bằng nền: mỗi cột nội suy từ mép trên xuống mép dưới của vùng (bóng mờ phía trên nhạt dần)

diff --git a/VIEC_LAM_TIEP_K10.md b/VIEC_LAM_TIEP_K10.md
@@ -15,7 +15,9 @@ Cập nhật: 12/11/2026. Ghi chú này để lần sau làm tiếp không phả
 - Bài giảng Bài 13 trong hồ sơ nay là **19 slide ảnh** từ `K10/Bài 13- Tong_hop_va_Phan_tich_Luc_da_sua.pptx` (làm bằng NotebookLM, bản "đã sửa"): tiết 1 (tình huống, thí nghiệm 3 lực kế, quy tắc hình bình hành, độ lớn hợp lực, trường hợp đặc biệt, mini-quiz), tiết 2 (mặt phẳng nghiêng, phân tích lực, điều kiện cân bằng, luyện tập 3 dạng, dây phơi), phụ lục (phiếu học tập, đáp án). Trang `bai-giang/k10-B13.html`, ảnh `bai-giang/k10-B13/s01..s19.jpg`.
 - Dựng: `python -I -X utf8 tools/k10_bai_giang/dung.py` (dùng khung của `tools/k11_bai_giang`). Đã xóa số trang thừa (40–50) trong bánh răng slide 9–17 (khai báo `SUA_ANH`).
 - 12 mô phỏng (nút "Mô phỏng", phím M) ở slide 3, 4, 5, 6, 7, 9, 10, 11, 12, 13, 16, 17: ba lực kế có bảng số liệu và sai số đọc, hình bình hành + đồ thị F theo α, các trường hợp đặc biệt, mặt phẳng nghiêng, phân tích lực (xoay hệ trục), ba lực cân bằng (đa giác lực), vật treo hai dây, dây phơi (dây đứt khi T quá sức chịu), tìm F₁, F₂ từ đồ thị. Mã: `tools/k10_bai_giang/mo_phong/B13.js`.
-- Bài giảng tương tác cũ (20 slide, câu hỏi củng cố có chấm điểm, mô phỏng cũ) giữ lại thành `bai-giang/k10-B13-tuong-tac.html`; nút "Luyện tập tương tác" trong bài mới mở nó tại Củng cố 1. `dung_k10.sh` đã đổi đích dựng sang tên này.
+- Gộp với bài giảng tương tác cũ (23/11/2026, giáo viên yêu cầu không để mất phần cũ): `k10-B13.html` nay có **32 slide** = 18 slide ảnh + 14 hoạt động tương tác của bản cũ nhúng đúng chỗ (khung `iframe` mở `k10-B13-tuong-tac.html`, ẩn thanh điều khiển riêng, phím ← → bấm từng bước `.step` rồi sang slide kế). Trình tự khai báo ở `BAI['B13']['day']` trong `tools/k10_bai_giang/dung.py`: ('a', chỉ số slide pptx, tên) là ảnh, ('t', chỉ số slide trang cũ, tên) là hoạt động tương tác. Đã đưa vào: Khởi động chọn ô số, Dự đoán hướng tàu, HĐ1 cùng phương, HĐ2 sắp xếp bước, Giải mã tàu chở hàng, Củng cố 1, Ví dụ mặt phẳng nghiêng nhẵn, Củng cố 3, **HĐ3 phân loại tình huống cân bằng / không cân bằng**, Củng cố 2, Em có thể, Tổng kết, Luyện tập tổng hợp, Bài tập vận dụng. Không đưa (đã có bản ảnh/mô phỏng tương đương): Hai tàu kéo, KT I, Mô phỏng hợp lực, Giải thích độ lớn, KT II, KT III. Slide Mini-quiz của pptx bị bỏ theo phiếu #7.
+- Chỉ số mô phỏng trong `mo_phong/B13.js` là chỉ số slide pptx (0..18), không đổi khi chèn thêm hoạt động; trang tự đổi bằng trường `mp`. Chỉ số trong địa chỉ `#B13@N` là số thứ tự trong 32 slide.
+- Bản cũ `k10-B13-tuong-tac.html` vẫn là nguồn của các hoạt động tương tác: sửa nội dung hoạt động thì sửa ở đó (không dựng lại từ OneDrive, xem lưu ý dưới). Nút "Luyện tập tương tác" cũ đã ẩn vì không còn cần.
 - LƯU Ý: trang `k10-B12..B15` và `k10-B13-tuong-tac` đã được chỉnh trực tiếp ở các lần trước (giọng đọc tiếng Việt, commit c808c60, 96be2bb) mà bản vá `tools/va_bai_giang_roi.js` chưa có; chạy lại `dung_k10.sh` sẽ XÓA các chỉnh sửa đó. Muốn dựng lại thì phải đưa chúng vào bản vá trước.
 - Việc dở: Bài 14, 15 làm tương tự khi có pptx mới; dữ liệu Bài tập của Bài 13 trong hồ sơ (`tools/noi_dung_k10_chuong3.json`) chưa đổi, vẫn theo bản cũ.
 

diff --git a/CLAUDE.md b/CLAUDE.md
@@ -11,7 +11,7 @@ Trao đổi với giáo viên bằng tiếng Việt. Nhiều tệp nguồn của
 | dữ liệu K12 Ch.2 trong hồ sơ | `nguon/data/k12-2.js` (do `tools/build_du_lieu.js` tạo từ trang ôn tập gốc, chỉ có trên máy) | sửa thẳng `nguon/data/k12-2.js` rồi `node tools/dong_goi.js` | Sửa tay được; ghi nhật kí |
 | dữ liệu K10 Ch.3 trong hồ sơ | kiến thức, công thức, dạng bài, lỗi hay mắc, thẻ: `tools/noi_dung_k10_chuong3.json`; câu hỏi lấy từ trang bài giảng gốc (chỉ có trên máy) | trên máy: `node tools/build_du_lieu_roi.js tools/noi_dung_k10_chuong3.json` rồi `node tools/dong_goi.js` | Không chạy được build (thiếu trang gốc): sửa cả `.json` và `nguon/data/k10-3.js`, rồi `dong_goi.js` |
 | `bai-giang/k10-B12.html`, `k10-B14.html`, `k10-B15.html`, `k10-B13-tuong-tac.html` | trang bài giảng gốc (OneDrive của giáo viên) + vá hiển thị `tools/va_bai_giang_roi.js` | `node tools/build_bai_giang_roi.js "<gốc>" bai-giang/k10-B13.html B13` | Không: sửa thẳng trang đã dựng, ghi nhật kí |
-| `bai-giang/k10-B13.html` + `k10-B13/s*.jpg` | pptx của giáo viên `K10/Bài 13- Tong_hop_va_Phan_tich_Luc_da_sua.pptx` (slide là ảnh) + mô phỏng `tools/k10_bai_giang/mo_phong/B13.js`; nút "Luyện tập tương tác" mở `k10-B13-tuong-tac.html#B13@9` | `python -I -X utf8 tools/k10_bai_giang/dung.py` (cần pptx) | Chữ trên ảnh slide KHÔNG sửa được trên GitHub: trả lời CAN HOI. Sửa mô phỏng: sửa `B13.js` rồi dựng lại (cần pptx trên máy), hoặc sửa thẳng `k10-B13.html` và ghi nhật kí |
+| `bai-giang/k10-B13.html` + `k10-B13/s*.jpg` | pptx của giáo viên `K10/Bài 13- Tong_hop_va_Phan_tich_Luc_da_sua.pptx` (slide là ảnh) + mô phỏng `tools/k10_bai_giang/mo_phong/B13.js`; 32 slide = 18 ảnh + 14 hoạt động nhúng từ `k10-B13-tuong-tac.html` (khai báo ở `BAI['B13']['day']`) | `python -I -X utf8 tools/k10_bai_giang/dung.py` (cần pptx) | Chữ trên ảnh slide KHÔNG sửa được trên GitHub: trả lời CAN HOI. Sửa mô phỏng: sửa `B13.js` rồi dựng lại (cần pptx trên máy), hoặc sửa thẳng `k10-B13.html` và ghi nhật kí |
 | `bai-giang/k12-chuong2.html`, `on-tap/k12-chuong2.html` | trang ôn tập gốc (chỉ có trên máy); sửa đáp án qua `tools/sua_dap_an_on_tap.js` | `build_bai_giang.js` / `build_on_tap.js` | Sửa ĐÁP ÁN: thêm mục vào `tools/sua_dap_an_on_tap.js` rồi `node tools/sua_dap_an_on_tap.js on-tap/k12-chuong2.html bai-giang/k12-chuong2.html` (tự áp lại khi dựng lại trên máy). Sửa khác: sửa thẳng, ghi nhật kí |
 | `bai-giang/k10-chuong2-mo-rong.html` + `k10-c2-mr/du-lieu.js` | `tools/k10_chuong2_mo_rong/src/p*.txt` | `python -I -X utf8 tools/k10_chuong2_mo_rong/dung.py "<PDF scan>"` (cần PDF trên máy) | Không: sửa `src/p*.txt` VÀ sửa thẳng `du-lieu.js` cho khớp, ghi nhật kí (để dựng lại Word trên máy) |
 | `bai-giang/k11-bai-tap.html` + `k11-bt/du-lieu.js` | `tools/k11_bai_tap/src/B*.txt` | `python3 -X utf8 tools/k11_bai_tap/dung.py` | Có |
